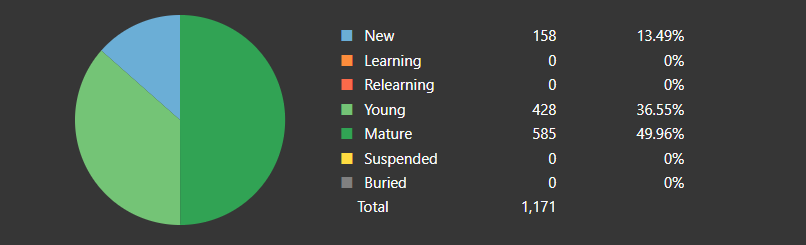
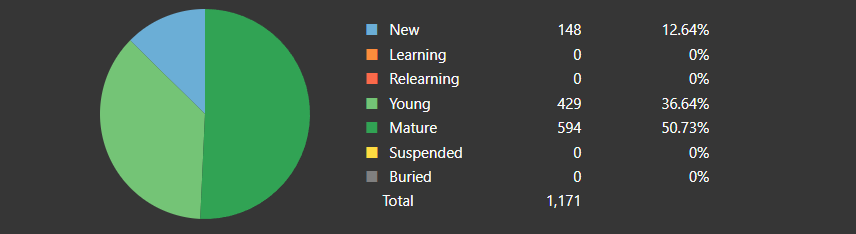
Deployed dcc89d7 with MkDocs version: 1.5.3

diff --git a/index.html b/index.html
@@ -423,15 +423,15 @@
       <ul class="md-nav__list">
         
           <li class="md-nav__item">
-  <a href="#tango-n5-as-of-112323" class="md-nav__link">
-    Tango N5 as of 11/23/23
+  <a href="#tango-n5-as-of-112423" class="md-nav__link">
+    Tango N5 as of 11/24/23
   </a>
   
 </li>
         
           <li class="md-nav__item">
-  <a href="#tango-n4-as-of-112323" class="md-nav__link">
-    Tango N4 as of 11/23/23
+  <a href="#tango-n4-as-of-112423" class="md-nav__link">
+    Tango N4 as of 11/24/23
   </a>
   
 </li>
@@ -1920,15 +1920,15 @@
       <ul class="md-nav__list">
         
           <li class="md-nav__item">
-  <a href="#tango-n5-as-of-112323" class="md-nav__link">
-    Tango N5 as of 11/23/23
+  <a href="#tango-n5-as-of-112423" class="md-nav__link">
+    Tango N5 as of 11/24/23
   </a>
   
 </li>
         
           <li class="md-nav__item">
-  <a href="#tango-n4-as-of-112323" class="md-nav__link">
-    Tango N4 as of 11/23/23
+  <a href="#tango-n4-as-of-112423" class="md-nav__link">
+    Tango N4 as of 11/24/23
   </a>
   
 </li>
@@ -1995,13 +1995,13 @@
 
 <h1 id="docjp-landing-page">doc.jp Landing Page<a class="headerlink" href="#docjp-landing-page" title="Permanent link">&para;</a></h1>
 <h2 id="anki-deck-card-counts">Anki Deck Card Counts<a class="headerlink" href="#anki-deck-card-counts" title="Permanent link">&para;</a></h2>
-<h3 id="tango-n5-as-of-112323">Tango N5 as of 11/23/23<a class="headerlink" href="#tango-n5-as-of-112323" title="Permanent link">&para;</a></h3>
-<p><strong>1013</strong> vocabulary words known with <strong>158</strong> new cards remaining </p>
+<h3 id="tango-n5-as-of-112423">Tango N5 as of 11/24/23<a class="headerlink" href="#tango-n5-as-of-112423" title="Permanent link">&para;</a></h3>
+<p><strong>1023</strong> vocabulary words known with <strong>148</strong> new cards remaining </p>
 <ul>
 <li>On track to finish all new cards on <strong>12/09/23</strong> doing <strong>10</strong> new cards a day.</li>
 </ul>
 <p><img align="center" alt="Card Counts" src="assets/anki-stats/n5-card-counts.png" /></p>
-<h3 id="tango-n4-as-of-112323">Tango N4 as of 11/23/23<a class="headerlink" href="#tango-n4-as-of-112323" title="Permanent link">&para;</a></h3>
+<h3 id="tango-n4-as-of-112423">Tango N4 as of 11/24/23<a class="headerlink" href="#tango-n4-as-of-112423" title="Permanent link">&para;</a></h3>
 <p><strong>0</strong> vocabulary words known with <strong>917</strong> new cards remaining: Haven't started this deck yet.</p>
 <p><img align="center" alt="Card Counts" src="assets/anki-stats/n4-card-counts.png" /></p>
 <h2 id="grammar-learning">Grammar Learning<a class="headerlink" href="#grammar-learning" title="Permanent link">&para;</a></h2>
